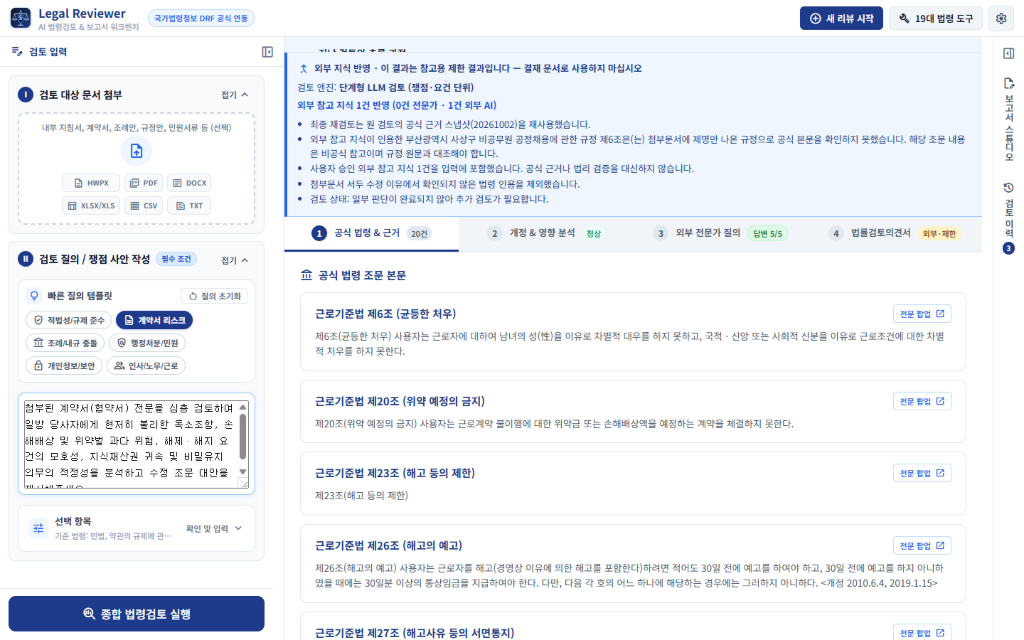
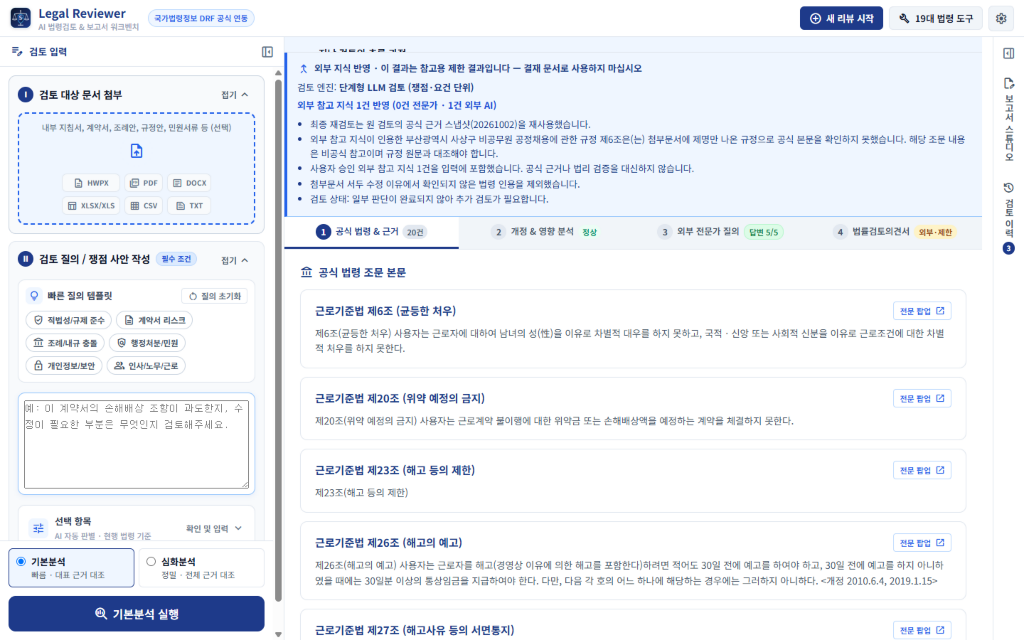
ㄴ

diff --git a/docs/current-status.md b/docs/current-status.md
@@ -9,10 +9,10 @@
 ```mermaid
 flowchart TB
     subgraph Client["프론트엔드 (법령검토 워크벤치)"]
-        UI_Input["검토 요청 입력 / 첨부문서(HWPX/DOCX/PDF/XLSX/CSV/TXT)"]
-        UI_Presets["7대 검토 유형 프리셋"]
-        UI_Tabs["검토 4개 탭 + 외부 전문가 질의 탭"]
-        UI_Studio["보고서 스튜디오 & HWPX/PDF/DOCX/MD 다운로드"]
+        UI_Input["검토 요청 입력 / 첨부문서(HWPX/DOCX/PDF/XLSX/CSV/TXT) / 기본·심화분석 선택"]
+        UI_Presets["6대 빠른 프리셋 + 사전 컨설팅감사"]
+        UI_Tabs["4대 결과 탭 (공식근거 / 개정·영향 / 외부질의 / 법률검토의견서)"]
+        UI_Studio["보고서 스튜디오 · 검토 이력 & HWPX/PDF/DOCX/MD 다운로드"]
     end
 
     subgraph Server["백엔드 (Node.js/Express ESM)"]
@@ -21,7 +21,7 @@ flowchart TB
         Progress["실시간 진행률 스트리머 (NDJSON Stream)"]
         ReRanker["시맨틱 Re-ranking 엔진"]
         Verifier["조문 실존성 검증기 (Factuality Verifier)"]
-        LLM_Engine["IRAC 법리 추론 엔진 (Ollama / OpenAI / Claude / Gemini)"]
+        LLM_Engine["IRAC 법리 추론 엔진 (Ollama / LG EXAONE / OpenAI / Claude / Gemini)"]
         Doc_Parser["정밀 문서 파서 (HWPX/DOCX/PDF/Excel)"]
         Export_Engine["공공 표준 서식 생성기 (HWPX/DOCX/PDF/MD)"]
         Cache_DB["SQLite L2 WAL 캐시 DB"]
@@ -29,7 +29,7 @@ flowchart TB
 
     subgraph External["외부 연동"]
         Law_DRF["국가법령정보센터 DRF API (법령/조문/행정규칙/자치법규/판례)"]
-        LLM_Service["로컬 Ollama (gemma4 등) 또는 클라우드 LLM"]
+        LLM_Service["로컬 Ollama (gemma4:e2b / bge-m3) 또는 클라우드 LLM"]
     end
 
     UI_Input --> API_Router
@@ -51,20 +51,21 @@ flowchart TB
 ### 핵심 모듈 매핑
 - `server/law/lawWorkbench.js`: 공식 법령·판례·해석례 자료와 첨부문서를 결합하여 검토 컨텍스트 수집 및 파이프라인 제어.
 - `server/law/lawWorkbenchReview.js`: 기본 단일 호출 검토, 단계형 위임, 조문 실존성 검증 및 폴백 처리.
-- `server/reasoning/`: 단계형 검토(S0~S7). 근거 등록부(S0), 쟁점 추출(S1), 추가 조사(S2), 요건 분해(S3), 쟁점별 포섭(S4), 검증 원장(S6), 공백 산출(S7), 종합(S5).
+- `server/reasoning/`: 단계형 검토(S0~S7) — 근거 등록부(S0), 쟁점 추출(S1), 추가 조사(S2), 요건 분해(S3), 쟁점별 포섭(S4), 검증 원장(S6), 공백 산출(S7), 종합(S5), 분석 수준(`analysisDepth.js`), 외부 전송 게이트(`externalGate.js`) 및 외부 재검토(`escalation.js`).
+- `server/privacy/`: 외부 LLM 전송 전 자동 비식별(`deidentify.js`) 및 전송 감사 로그(`auditLog.js`).
 - `server/law/progressReporter.js`: 검토 단계별 진행률 및 세부 상태를 NDJSON 스트림으로 실시간 전송.
 - `server/law/manualLearning*.js`: 비식별 질의서 생성, 질문별 답변 카드 반입, 승인·지식 관리 및 재검토 루프.
 - `server/law/tools/toolRegistry.js`: 17개 공식 법령 도구 및 인프라 실행 모듈.
-- `public/js/`: 웹 워크벤치 4개 탭 및 학습 탭 UI, 검토 이력 관리(IndexedDB), 보고서 스튜디오.
+- `public/js/`: 3단 도크 워크벤치 UI(4대 결과 탭, `analysisDepthView.js`, `externalLlm.js`, `learningTab.js`), 검토 이력 관리(IndexedDB), 보고서 스튜디오.
 - `server/export/`: 검토 결과와 제한 사항을 반영한 HWPX, PDF, DOCX, Markdown 표준 공문서 패키징.
 
 ---
 
 ## 2. 실행 경로
 
-1. **기본 검토 경로 (Monolithic)**
-   - 일반 API 검토의 기본 경로는 단일 호출(`monolithic`) 경로이다.
-   - 단, 입력 문서 및 컨텍스트가 모델 예산을 초과하는 경우 토큰 안전을 위해 단계형 분할 검토(`staged`)를 먼저 시도한다.
+1. **기본 검토 및 분석 수준 경로 (`BASIC` / `DEEP` / Monolithic)**
+   - 웹 UI에서는 `기본분석`(`BASIC`, 기본 선택) 또는 `심화분석`(`DEEP`)을 선택해 단계형 파이프라인(`staged` S0~S7)으로 실행한다. `기본분석` 직후 결과 배너에서 `심화분석 실행`을 누르면 `deepenReviewId`로 서버 세션(3시간 보관)의 사실·쟁점·공식 근거를 재사용해 판단·검증 단계만 전체 수행한다.
+   - `analysisDepth`를 지정하지 않은 일반 API 직접 호출은 기존 단일 호출(`monolithic`) 경로를 유지하며, 입력 문서 및 컨텍스트가 모델 예산을 초과하면 토큰 안전을 위해 단계형 분할 검토(`staged`)를 먼저 시도한다.
 2. **판례·해석례 선별 및 본문 수집**
    - 판례·해석례는 공식 검색 목록을 먼저 조회하고, LLM을 통해 묶음별 적합도를 선별한 뒤 통과·불확실 후보의 공식 본문만을 2단계로 정밀 조회한다.
    - 명시 인용 후보는 강제 보존하며, 목록 판정 자체는 법적 근거가 될 수 없으므로 공식 본문이 확인된 자료만 인용한다.
@@ -83,9 +84,9 @@ flowchart TB
 
 ## 3. 검증 상태
 
-- **단위 테스트 (`npm test`)**: 2026-11-23 실측 기준 **360건 중 357건 통과, 3건 실패** (외부 통신 격리 픽스처 기반 회귀 검증).
+- **단위 테스트 (`npm test`)**: 2026-11-23 실측 기준 **362건 중 359건 통과, 3건 실패** (외부 통신 격리 픽스처 기반 회귀 검증).
   - 실패 3건(`test/elements.test.js` 1건, `test/reasoningStages.test.js` 2건)은 `.env`의 `LLM_MODEL_BUDGETS`(`hangul: 0.75`) 환경에서 테스트용 장문 입력이 분할 임계치 미만으로 계산되어 분할 호출이 1회로 병합되는 현상이다.
-  - 법령 API 파서, 다중 포맷 문서 파서, 조문 실존성 검증, 시맨틱 Re-ranking, 진행률 NDJSON 스트리밍, 시점 검토, 취소 제어 등 전 범위 포함.
+  - 법령 API 파서, 다중 포맷 문서 파서, 조문 실존성 검증, 시맨틱 Re-ranking, 진행률 NDJSON 스트리밍, 시점 검토, 취소 제어, 분석 수준(`analysisDepth.test.js`), 비식별·외부 전송 게이트 등 전 범위 포함.
 - **실제 API 및 모델 검증 상태**:
   - 로컬 Ollama (`gemma4:e2b`) 환경에서 5개 실무 샘플(취업규칙, 용역계약, 영업정지, 개인정보, 사전컨설팅)에 대한 진단 측정을 수행함 ([단계형 비교 기록](audit/pipeline-comparison-2026-09-23.md)).
   - 단계형 검토는 파싱 5/5건 성공 및 규칙 기반 폴백 0건을 달성하였으나, 일부 샘플의 쟁점 생략 및 시간 지연이 관찰되어 현재 기본 검토는 단일 호출을 우선 유지하고 초과 시 단계형으로 전환하도록 운영 중이다.
@@ -109,11 +110,14 @@ flowchart TB
 
 ---
 
-## 4. 분석 개선·LLM 3모드 (2026-11-23)
+## 4. 분석 개선·분석 깊이·LLM 3모드 (2026-11-23)
 
-**분석 품질**: 쟁점-조문 자동 연결(`statuteLinking`), 기준 법령 약칭·자치법규 해석(`findLawByName`), 판단이 한 건도 실행되지 않으면 의견서를 짜 맞추지 않고 원인을 안내(`noJudgmentFields`), 판단 유보를 "어떤 요건이 확인되면 어떤 결론"인 조건부 결론으로 계산(`conclusion.scenarios`), 의견서 첫머리 쟁점별 결론 요약, 문서 성격 식별(`documentProfile`), 사실이 부족한 긴 문서의 사실 보충 추출(`factTopUp`), 판례·해석례 재순위의 조사 제거·점수 분화.
+**분석 품질 및 문서 준수 검증**: 쟁점-조문 및 첨부문서 조항 자동 연결(`statuteLinking`, 법령 조문 번호 오인 방지), 기준 법령 약칭·자치법규 해석(`findLawByName`), 판단이 한 건도 실행되지 않으면 의견서를 짜 맞추지 않고 원인을 안내(`noJudgmentFields`), 판단 유보를 "어떤 요건이 확인되면 어떤 결론"인 조건부 결론으로 계산(`conclusion.scenarios`), 의견서 첫머리 쟁점별 결론 요약, 문서 성격 식별(`documentProfile`), 사실이 부족한 긴 문서의 사실 보충 추출(`factTopUp`), 판례·해석례 재순위의 조사 제거·점수 분화.
+- **문서 준수 판단(`verdictMode`)**: 계약서 외 일반 첨부문서 검토에서는 모델에 `COMPLIES` / `VIOLATES` / `NOT_ADDRESSED` / `UNCLEAR` 판단과 첨부문서 원문 인용(`quote`)을 요구한다(`application.js`, `resolveDocumentVerdict`). 원문 문장이 실제 첨부문서에 글자 그대로 존재(4자 이상)할 때만 준수·위반 판단을 인정하고, 법 조문 되풀이 등 미확인 인용은 `UNCLEAR`(사실 추가 확인 필요)로 강등한다. 결론은 `complianceConclusion`에서 `위반 소지(VIOLATION_RISK)` / `위반 사항 미발견(NO_VIOLATION_FOUND)` / `추가 확인 필요(NEEDS_FACTS)`로 계산한다.
 
-**속도**: 목록 선별을 로컬 임베딩 우선(경계 후보만 LLM, `evidenceScreen`), 포섭 출력 축소(서술 260자·두 번째 이후 호출은 서술/반대 논리 생략), 근거 검증은 긴 근거에서 의미가 가까운 조각 4개로 제한, 추출 단계(S1·S3)에 별도 경량 모델 지정 가능(`REVIEW_EXTRACT_MODEL`, 기본 꺼짐), 쟁점 확정 즉시 진행 화면에 표시, 분석 깊이 선택(`analysisDepth.js`: `BASIC` 기본분석 / `DEEP` 심화분석, 기본값 `DEEP`). 미착수: 수정안 묶음 생성(조문별 요건 사전 분해 스크립트는 `scripts/warmElements.js`로 제공).
+**분석 수준(`BASIC` 기본분석 / `DEEP` 심화분석) 및 속도**: 목록 선별을 로컬 임베딩(`bge-m3`) 우선 처리(경계 후보만 LLM, `evidenceScreen`), 포섭 출력 축소(서술 260자·두 번째 이후 호출은 서술/반대 논리 생략), 근거 검증은 긴 근거에서 의미가 가까운 조각 4개로 제한, 추출 단계(S1·S3)에 별도 경량 모델 지정 가능(`REVIEW_EXTRACT_MODEL`, 기본 꺼짐), 쟁점 확정 즉시 진행 화면에 표시. 미착수: 수정안 묶음 생성(조문별 요건 사전 분해 스크립트는 `scripts/warmElements.js`로 제공).
+- **기본분석(`BASIC`, UI 기본)**: 결론을 좌우하는 검증 요건만 판단하고(`selectJudgedElements`), 판단을 내린 요건마다 의미가 가까운 대표 근거 최대 2건·각 1조각만 원문 대조한다(`warrant.js`에서 미대조 항목은 `NOT_CHECKED`, UI에서는 `공식 출처 확인 · 내용 대조 전(SOURCE_ONLY)`으로 구분). 판례 유추·반대 논리·수정 조문은 제외하며 어떤 경우에도 '검토 완료'로 표시하지 않는다. 결과 상단 배너(`analysisDepthView.js`)에 검증 범위와 `심화분석 실행` 이어가기 버튼을 표시한다.
+- **심화분석(`DEEP`, API 미지정 시 기본)**: 모든 요건·근거·판례 유추·반대 논리·수정 조문을 전체 검증한다. 기본분석 완료 후 3시간 이내 이어가기(`deepenReviewId`) 시 사실·쟁점·공식 근거를 재사용하고 판단·검증만 전체 실행한다(외부 LLM 모드는 전송 재승인을 위해 처음부터 실행).
 
 **LLM 사용 방식(설정)**: 내부 LLM만 / 내부+외부 병용 / 외부 LLM만.
 - 외부로 나가는 모든 호출은 `externalGate`를 지난다. 기본은 차단이며 승인은 비식별된 전송 내용의 해시에 묶인다. 승인된 범위에서도 호출마다 식별정보 후보가 남아 있으면 막는다.

diff --git a/README.md b/README.md
@@ -48,7 +48,12 @@
 2. **II. 검토 질의 / 쟁점 사안 작성 (필수)**:
    - **빠른 질의 템플릿** 6종(`적법성/규제 준수`, `계약서 리스크`, `조례/내규 충돌`, `행정처분/민원`, `개인정보/보안`, `인사/노무/근로`) 중 하나를 누르면 실무용 질의 문구와 권장 기준 법령이 자동 입력됩니다. (직접 작성도 가능하며, 적극행정 사전 컨설팅감사 신청서 첨부·질의 시 갑설·을설 비교 전용 보고서도 지원합니다.)
    - **선택 항목**을 펼치면 `기준 대상 법령`과 `검토 기준 시점`(과거 특정 날짜 기준 소급 법령 조회)을 직접 지정할 수 있습니다.
-3. **종합 법령검토 실행**: 버튼을 누르면 상단 실시간 진행 패널에서 `준비 → 수집 → 분석 → 작성 → 검증` 단계와 예상 진행률(%)을 확인할 수 있습니다.
+3. **III. 분석 수준 선택 및 실행 (`기본분석` / `심화분석`)**:
+   - **기본분석 (기본값, 빠름)**: 결론을 좌우하는 핵심 요건만 우선 판단하고 대표 근거 일부만 원문과 대조합니다. 결과 상단에 검증 범위와 **`심화분석 실행`** 이어가기 버튼이 표시되며, 결재·외부 제출 전에는 심화분석 실행을 권장합니다.
+   - **심화분석 (정밀)**: 모든 요건·판례 유추·반대 논리·수정 조문(Redline)까지 전체 원문 대조를 수행합니다. 기본분석 직후 이어가기 버튼을 누르면 수집된 사실·쟁점·공식 근거를 재사용해 판단·검증 단계만 이어서 실행합니다.
+   - 실행 버튼을 누르면 상단 실시간 진행 패널에서 `준비 → 수집 → 분석 → 작성 → 검증` 단계와 예상 진행률(%)을 확인할 수 있습니다.
+
+> **첨부문서 준수 판단 검증**: 계약서 외 일반 첨부문서 검토에서는 모델이 첨부문서 원문 문장을 글자 그대로 인용한 경우에만 `위반 소지` / `위반 사항 미발견`으로 인정하며, 원문 확인이 안 된 판단은 `추가 확인 필요`로 표시합니다.
 
 ### ② 4대 결과 탭 (중앙 패널)
 
